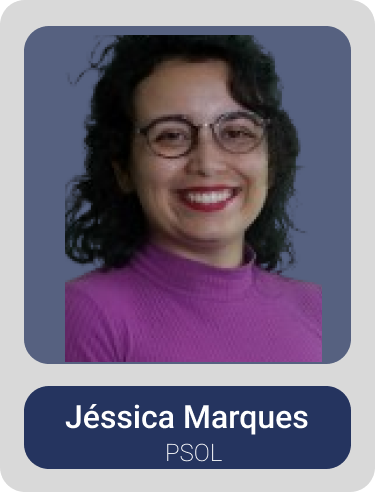
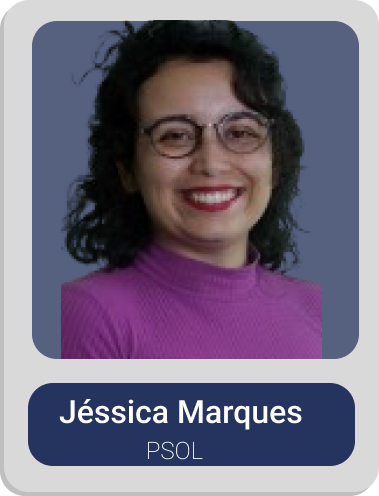
terminando o css da tela menu
oficialmente terminei: adicionei mais um candidato e ajustei os botoes que faltavam

diff --git a/Front-end/código/menu/html-css/menu.css b/Front-end/código/menu/html-css/menu.css
@@ -137,11 +137,14 @@ header .logo img {
 
 #container {
     display: flex;
-    align-items: center; /* Alinha verticalmente */
-    overflow: auto; 
-    
+    overflow:auto; 
+
+
+   flex-wrap: nowrap; /**permite q os elementos vao pra prox linha se n tiver espaco**/
    
+  
 }
+
 
 #avancarVoltar {
     display: flex;
@@ -156,6 +159,11 @@ header .logo img {
   
 }
 
+#btnVoltar:hover {
+    background-color: #e5e5e6;
+    border-radius: 100px;
+}
+
 #btnAvancar {
     background: none; /* Remove o fundo */
     border: none; /* Remove a borda */
@@ -163,11 +171,18 @@ header .logo img {
   
 }
 
+#btnAvancar:hover {
+    background-color: #e5e5e6;
+    border-radius: 100px;
+}
+
 #candidatos {
     display: flex;
-    justify-content: center; /* Centraliza os candidatos */
-    cursor: pointer;
-    flex-grow: 1; /* Permite que o contêiner cresça e ocupe espaço */
+}
+
+#candidato1 img, #candidato2 img, #candidato3 img, #candidato4 img {
+
+    width: 100%;  /* Defina a largura conforme necessário */
 
 }
 
@@ -175,11 +190,18 @@ header .logo img {
     display: flex;
     transform: scale(0.8);
     transition: transform 0.3s; /* Suaviza a animação */
+
+   
+
+    cursor: pointer;
 }
 
+
 #candidato1:hover, #candidato2:hover, #candidato3:hover, #candidato4:hover {
-    transform: scale(1); /* Reduz a transformação no hover para 1.05 */
-}
+    transform: scale(1); 
+}   
+    
+
 
 
 footer {
@@ -228,6 +250,8 @@ footer {
         #candidatos {
             flex-wrap: wrap; /* Permite que os candidatos se movam para a próxima linha */
             justify-content: center; /* Centraliza os candidatos */
+
+          
         }
     
         #candidato1, #candidato2, #candidato3, #candidato4 {
